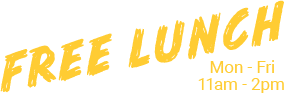
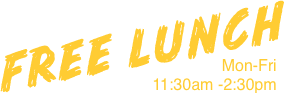
Copy/image changes

Changed region(s): [[0.5352, 0.8387, 1.0, 1.0], [0.7324, 0.6237, 0.9859, 0.7957]]

diff --git a/index.php b/index.php
@@ -236,7 +236,7 @@
           <div class="tab-pane fade in col-lg-12" id="happy-hour">
           	<div class="row">
               <div class="tab-header">
-                <span><h5>Beer and Cocktail Specials</h5><h6>Monday - Friday 5:00pm - 7:00 pm</h6></span>
+                <span><h5>Beer and Cocktail Specials</h5><h6>Monday - Friday 3:00pm - 7:30pm</h6></span>
               </div>
             	<div class="col-lg-6 col-md-6 animated fadeInLeft photo-subtext">
                 <script type="text/javascript">
@@ -269,7 +269,7 @@
           <div class="tab-pane fade in active col-lg-12" id="free-lunch">
           	<div class="row">
               <div class="tab-header">
-                <span><h5>Sit down for a complementary lunch<br>and enjoy the view.</h5><h6>Monday - Friday 11:00am - 2:00 pm</h6></span>
+                <span><h5>Sit down for a complimentary lunch<br>and enjoy the view.</h5><h6>Monday - Friday 11:30am - 2:30 pm</h6></span>
               </div>
               <script type="text/javascript">
               var today = '';
@@ -569,9 +569,9 @@
             </div>
             <div class="row location-text">
               <div class="col-lg-12">
-                <p>Open 7 days a week<br>
-                Free Lunch: 11am until 2pm<br>
-                Happy Hour: 5pm until 7pm</p>
+                <p>Open 7 days a week<br><br>
+                Free Lunch Mon-Fri:<br>11:30am until 2:30pm<br><br>
+                Happy Hour Mon-Fri:<br>3pm until 7:30pm</p>
               </div>
             </div>
           </div>
